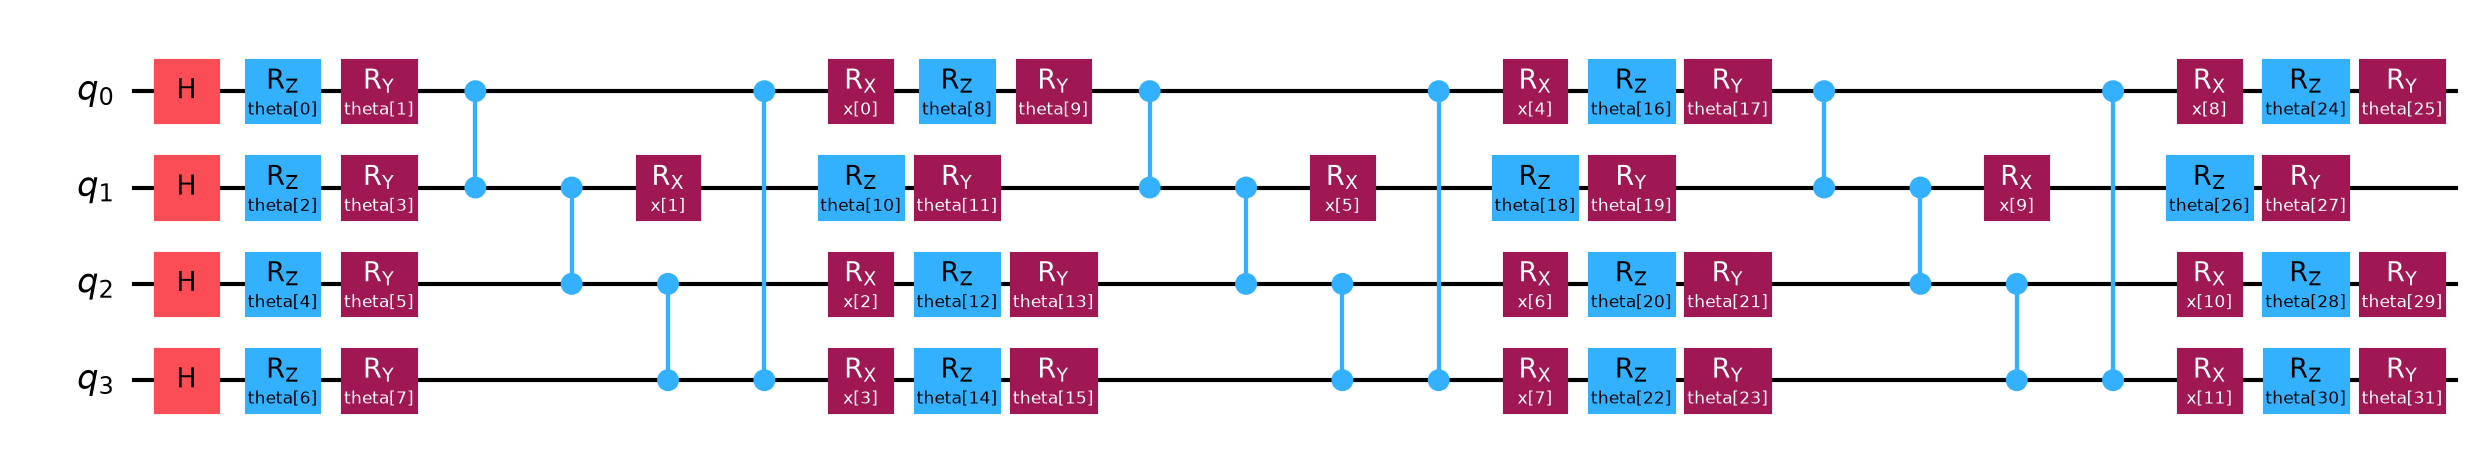
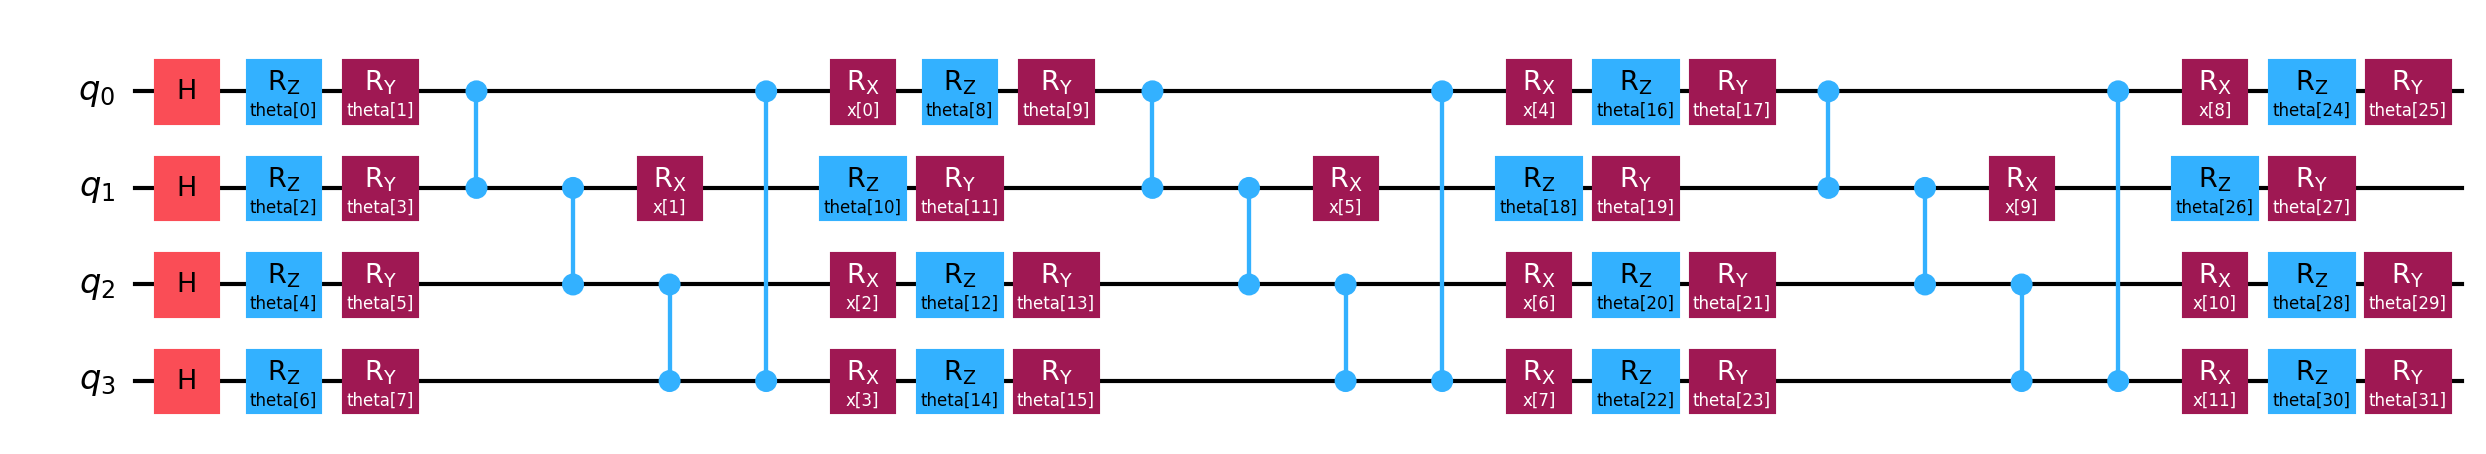
Add documentation for CartPole VQC Q-network

diff --git a/vqc_documentation.md b/vqc_documentation.md
@@ -1,0 +1,235 @@
+# VQC Q-Network Architecture and Execution Results
+
+`vqc.py` implements the quantum Q-network used by the CartPole DQN agent. It is a PyTorch `nn.Module` that maps a batch of four-dimensional CartPole observations to two Q-values, one for each action:
+
+```text
+(batch, 4) CartPole states -> VQCQNetwork -> (batch, 2) Q-values
+```
+
+The reinforcement-learning code only depends on this input-output interface, allowing the quantum execution backend to be changed without modifying the DQN logic.
+
+## 1. Model Specifications
+
+- Qubits: 4, one per CartPole observation feature
+- Actions: 2, corresponding to pushing the cart left or right
+- Variational blocks: 3
+- Initial state preparation: Hadamard gate on every qubit
+- Trainable rotations: `RZ(theta)` followed by `RY(theta)`
+- Entanglement: circular CZ ring
+- Data encoding: trainable-scaled `RX` data re-uploading in every block
+- Final layer: one additional `RZ-RY` rotation pair per qubit
+- Observables: `Z0Z1` and `Z2Z3`, one per action
+- Circuit rotation parameters: 32
+- Input-scaling parameters: 12
+- Output-scaling parameters: 2
+- Total trainable parameters: 46
+
+## 2. Program Architecture
+
+### 2.1 Hyperparameters
+
+```python
+N_QUBITS = 4
+N_LAYERS = 3
+N_ACTIONS = 2
+CIRCUIT_IMAGE = "vqc_circuit.png"
+```
+
+The four qubits correspond to the four CartPole state components:
+
+```text
+q0 <- cart position
+q1 <- cart velocity
+q2 <- pole angle
+q3 <- pole angular velocity
+```
+
+### 2.2 Circuit Construction
+
+`build_qnetwork_circuit()` creates the parameterized circuit and returns:
+
+- `circuit`: the complete Q-network circuit
+- `encoding_params`: 12 data-encoding parameters, ordered by layer and qubit
+- `weight_params`: 32 trainable rotation parameters
+
+The circuit starts by applying a Hadamard gate to every qubit. Each of the three variational blocks then performs:
+
+1. An `RZ(theta)` and `RY(theta)` pair on every qubit.
+2. A circular CZ ring: `q0-q1`, `q1-q2`, `q2-q3`, and `q3-q0`.
+3. One `RX(x)` data-encoding gate on every qubit.
+
+After the third block, a final `RZ-RY` layer is applied without another entanglement or encoding stage.
+
+The circuit contains four rotation layers in total. Each layer has two parameters per qubit:
+
+```text
+(3 variational blocks + 1 final layer) x 4 qubits x 2 rotations = 32 theta parameters
+```
+
+### 2.3 Why the Rotation Order Matters
+
+Each rotation pair applies `RZ` before `RY`. A final `RZ` gate commutes with a Z-type observable and can therefore become a dead parameter with zero gradient. Ending each pair with `RY` prevents the final rotation from commuting with the measurement.
+
+### 2.4 Circular Entanglement
+
+Each block uses a circular CZ ring rather than a linear chain. The closing `CZ(q3, q0)` connection places qubit 0 inside the full entanglement structure and allows the observables' backward light cones to cover all four qubits.
+
+This avoids the feature blindness found in simpler linear circuits, where some inputs and trainable parameters may have no influence on the output.
+
+### 2.5 Data Re-uploading and Input Scaling
+
+CartPole observations are first bounded with `arctan`:
+
+```python
+encoded = torch.arctan(state)
+```
+
+This keeps unbounded velocity features within a useful rotation-angle range. The bounded features are then multiplied by trainable input-scaling parameters:
+
+```python
+angles = input_scale * encoded
+```
+
+There is one scaling parameter for every layer-feature pair:
+
+```text
+3 layers x 4 features = 12 lambda parameters
+```
+
+The scaled state is uploaded again in every variational block. This data re-uploading increases the circuit's expressive power by introducing higher-order trigonometric feature interactions.
+
+### 2.6 Observables and Action Outputs
+
+`build_observables()` creates two observables:
+
+```python
+"IIZZ"  # Z0 Z1 -> action 0
+"ZZII"  # Z2 Z3 -> action 1
+```
+
+Qiskit Pauli strings use little-endian qubit ordering, so qubit 0 is the rightmost character. The two expectation values form the two action outputs produced by `EstimatorQNN`.
+
+Using two observables with complementary light cones ensures that every circuit parameter affects at least one output. The current 46-parameter network has no structurally dead trainable parameters.
+
+### 2.7 PyTorch Integration
+
+`VQCQNetwork` inherits from `torch.nn.Module`. `TorchConnector` wraps the `EstimatorQNN`, allowing the circuit parameters and input-scaling parameters to participate in PyTorch automatic differentiation.
+
+The QNN is configured with:
+
+```python
+input_gradients=True
+default_precision=0.0
+```
+
+`input_gradients=True` is required because gradients must pass through the encoded angles to the trainable input-scaling parameters. Exact expectation values are used to keep execution deterministic.
+
+### 2.8 Output Scaling
+
+Raw quantum expectation values are limited to `[-1, 1]`, but CartPole Q-values can become much larger. The network therefore multiplies each action output by its own trainable scale:
+
+```python
+return expectations * output_scale
+```
+
+These two output-scaling parameters allow the model to represent Q-values outside the physical expectation-value range.
+
+### 2.9 Optimizer Parameter Groups
+
+`parameter_groups()` exposes three parameter groups with separate learning rates:
+
+| Parameter group | Default learning rate | Purpose |
+|---|---:|---|
+| Circuit rotations (`theta`) | `1e-3` | Learn the variational circuit |
+| Input scaling (`lambda`) | `1e-3` | Learn feature encoding scales |
+| Output scaling (`w`) | `1e-1` | Learn the Q-value magnitude |
+
+The larger output-scale learning rate helps the network quickly expand beyond the `[-1, 1]` expectation-value range.
+
+## 3. Quantum Circuit Diagram
+
+![VQC Q-network circuit](vqc_circuit.png)
+
+The diagram is generated directly by `vqc.py`. Running the program overwrites `vqc_circuit.png`, keeping the documented circuit synchronized with the implementation.
+
+The main circuit flow is:
+
+```text
+Hadamard initialization
+        |
+[RZ-RY -> circular CZ -> scaled RX encoding] x 3
+        |
+Final RZ-RY layer
+        |
+Measure Z0Z1 and Z2Z3
+        |
+Two scaled Q-values
+```
+
+## 4. Forward-Pass Execution Result
+
+The `main()` function evaluates three CartPole-like observations:
+
+```python
+[
+    [ 0.0,  0.0,  0.00,  0.0],
+    [ 0.5, -1.2,  0.05,  0.8],
+    [-2.4,  3.0, -0.20, -2.5],
+]
+```
+
+Running the current implementation with seed `0` produced:
+
+```text
+circuit rotation params (theta) : 32
+input scaling params (lambda)   : 12
+output scaling params (w)       : 2
+
+Q-values shape: (3, 2)
+[[ 0.2843006  -0.08677849]
+ [-0.05736617 -0.20007975]
+ [-0.10119658  0.12873921]]
+```
+
+Each row corresponds to one input state, and each column corresponds to one CartPole action. For example, the third state currently assigns a larger Q-value to action 1 than to action 0.
+
+These values come from an initialized network and are not evidence of a trained policy. The DQN training loop is responsible for updating the network toward Bellman targets.
+
+## 5. Gradient-Safe Design Choices
+
+Four architectural choices are essential:
+
+1. **Circular entanglement** prevents qubits from falling outside the observables' light cones.
+2. **`RZ` before `RY`** prevents a trailing rotation from commuting with Z-type measurements.
+3. **Two complementary observables** ensure that all circuit parameters affect at least one action output.
+4. **Trainable output scaling** allows the network to represent Q-values larger than one.
+
+Finite-difference and TorchConnector gradient checks found zero dead parameters in the current 46-parameter architecture.
+
+## 6. Running the Program
+
+Create an environment, install the repository requirements, and run:
+
+```bash
+python3 -m venv .venv
+.venv/bin/python -m pip install -r requirements.txt
+.venv/bin/python vqc.py
+```
+
+The program prints the circuit, regenerates `vqc_circuit.png`, reports the parameter counts, and performs a forward pass on three sample states.
+
+Qiskit may report that it is automatically creating a gradient function. This is an informational message rather than an execution error.
+
+## 7. Difference from `vqc_v0.py`
+
+| Component | `vqc_v0.py` | `vqc.py` |
+|---|---|---|
+| Purpose | Teaching binary classifier | CartPole DQN Q-network |
+| Encoding | One `RY` encoding layer | Scaled `RX` re-uploading in every block |
+| Variational blocks | 2 | 3 plus a final rotation layer |
+| Entanglement | Circular CX | Circular CZ |
+| Observables | One local `Z0` output | `Z0Z1` and `Z2Z3` action outputs |
+| Input scaling | None | 12 trainable parameters |
+| Output scaling | Maps output to `[0, 1]` | Two trainable unbounded Q-value scales |
+| Total trainable parameters | 16 | 46 |
+| Structurally dead parameters | 2 | 0 |
